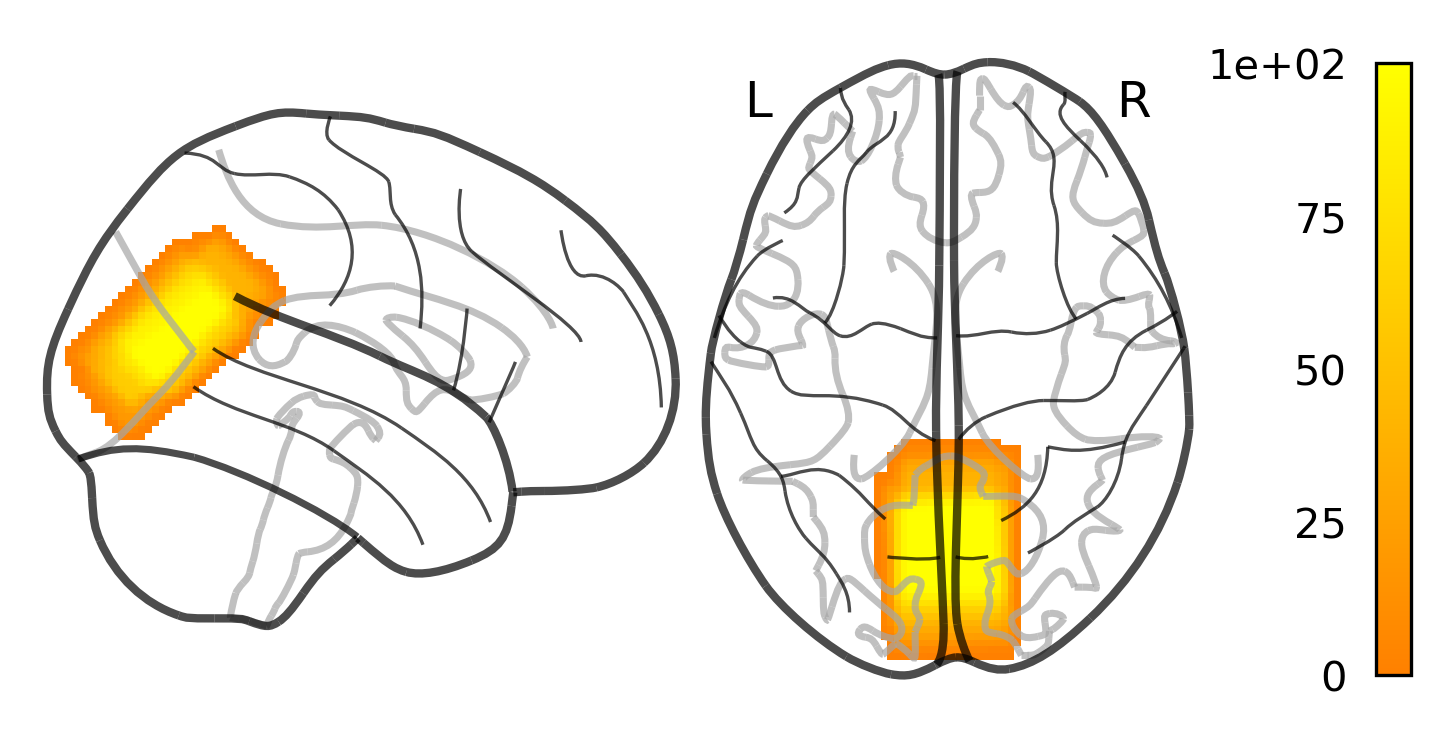
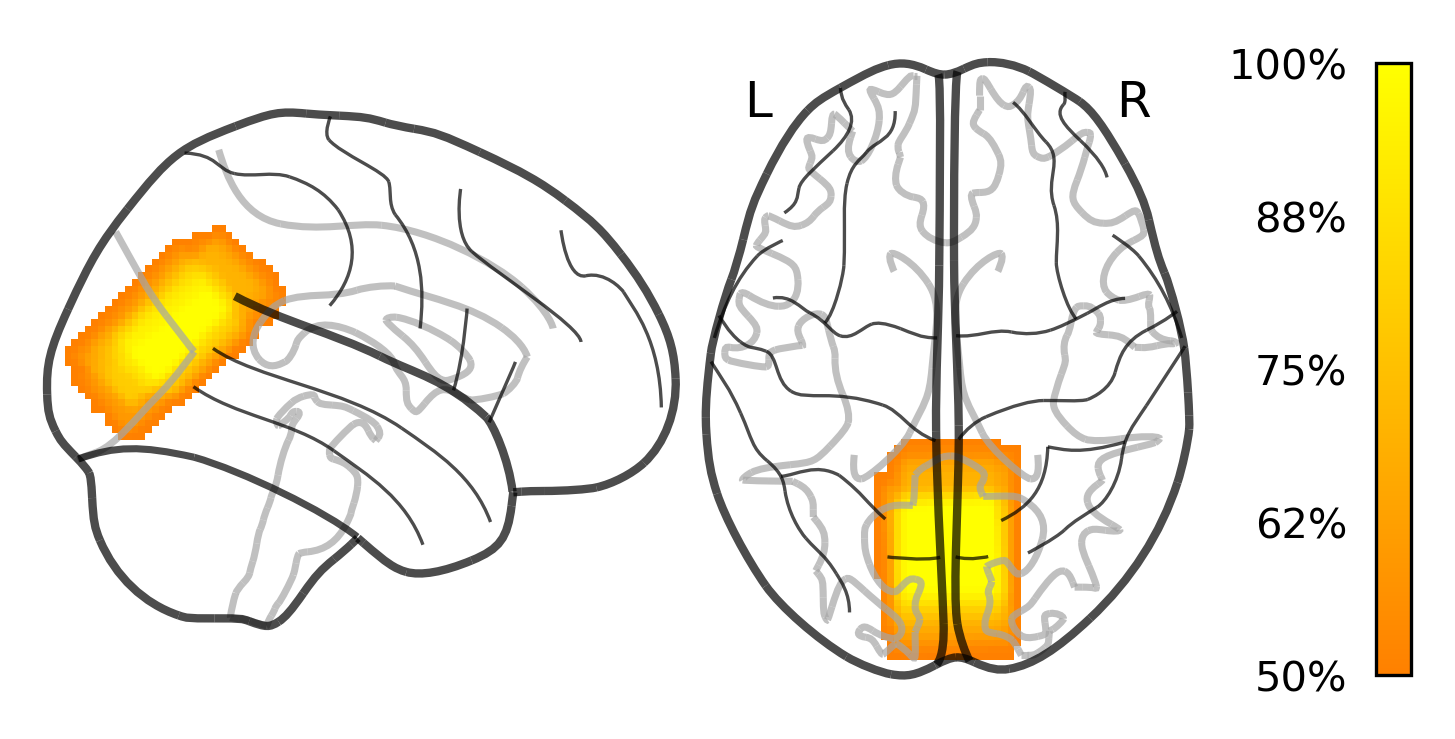
Adjusted ColorBars

diff --git a/figure1B_voxel-overlap_two-groups.py b/figure1B_voxel-overlap_two-groups.py
@@ -17,6 +17,8 @@ import pandas as pd
 import nibabel as ni
 import matplotlib.pyplot as plt
 from nilearn import plotting
+from matplotlib import ticker
+import matplotlib.gridspec as gridspec
 
 # Project directory
 data_dir = '/home/MRS_project/'
@@ -83,10 +85,29 @@ density_map_2 = ni.Nifti1Image(density_2,mask_aff)
 # Plot the figure
 fig = plt.figure()
 fig.set_size_inches(6,3)
-ax1 = plt.subplot(111)
-display=plotting.plot_glass_brain(None, threshold=0, colorbar=True, axes=ax1, display_mode='xz',alpha=0.5)
-display.add_contours(density_map_1, cmap='Reds',filled=False,alpha=0.8, colorbar=True)
-display.add_contours(density_map_2, cmap='Blues',filled=False,alpha=0.8, colorbar=True)
+
+gs = gridspec.GridSpec(1, 3,width_ratios=[9,1,1])
+ax1 = plt.subplot(gs[0])
+
+display=plotting.plot_glass_brain(None, threshold=0, colorbar=False, axes=ax1, display_mode='xz',alpha=0.5)
+display.add_contours(density_map_1, cmap='Reds',alpha=0.7)
+display.add_contours(density_map_2, cmap='Blues',alpha=0.7)
+
+ax2 = plt.subplot(gs[1])
+a = np.array([[0,1]])
+img = plt.imshow(a, cmap="Reds",axes=ax2)
+ax2.set_visible(False)
+plt.colorbar(ax=ax2)
+
+ax3 = plt.subplot(gs[2])
+a = np.array([[0,1]])
+img = plt.imshow(a, cmap="Blues",axes=ax3)
+ax3.set_visible(False)
+plt.colorbar(ax=ax3)
+
+# Adjust the scientific notation in the colorbars
+for ax in plt.gcf().axes:
+    ax.yaxis.set_major_formatter(ticker.PercentFormatter(1))
 
 # Save the figure
 fig.savefig(fig_dir+'figure_voxel_density_map_two-groups.png',bbox_inches='tight',dpi=300)

diff --git a/figure3A_spectra_single-group.py b/figure3A_spectra_single-group.py
@@ -43,7 +43,8 @@ freq_file = 'spectrum_frequencies.txt'
 disp_range = [17500,23000]
 
 # Colour to make the individual spectra - should be in a format compatible with matplotlib
-spec_colour = 'red'
+spec_colour = 'black'
+spec_color_mean='red'
 
 # Load in the spectum frequencies
 freq = np.loadtxt(os.path.join(data_dir,subjects[0],'mrs',freq_file))
@@ -72,9 +73,9 @@ ax1.grid(axis='y', color="0.9", linestyle='-', linewidth=1)
 ax1.set_axisbelow(True)
 for i in range(n_subs): # Plot individual spectra
     ax1.plot(freq[disp_range[0]:disp_range[1]], all_spec[i,disp_range[0]:disp_range[1]],
-      linewidth=0.4, alpha=0.3, color=spec_colour)
+      linewidth=0.3, alpha=0.3, color=spec_colour)
 ax1.plot(freq[disp_range[0]:disp_range[1]], mean_spec[disp_range[0]:disp_range[1]],
-  linewidth=1, alpha=0.9, color=spec_colour)
+  linewidth=1, alpha=0.9, color=spec_color_mean)
 ax1.set_xlabel('ppm',fontsize=8) # Label for x-axix - assumed to be in ppm here
 ax1.tick_params(axis='x',labelsize=8)
 ax1.set_yticklabels(('')) # Remove the tick labels from the y-axis

diff --git a/figure1A_voxel-overlap_single-group.py b/figure1A_voxel-overlap_single-group.py
@@ -17,6 +17,7 @@ import pandas as pd
 import nibabel as ni
 import matplotlib.pyplot as plt
 from nilearn import plotting
+from matplotlib import ticker
 
 # Project directory
 data_dir = '/home/MRS_project/'
@@ -65,6 +66,10 @@ fig = plt.figure()
 fig.set_size_inches(6,3)
 ax1 = plt.subplot(111)
 plotting.plot_glass_brain(density_map, threshold=0, colorbar=True, axes=ax1, cmap='autumn', display_mode='xz')
+
+# Adjust the scientific notion in the colorbar
+for ax in plt.gcf().axes:
+    ax.yaxis.set_major_formatter(ticker.PercentFormatter(1))
 
 # Save the figure
 fig.savefig(fig_dir+'figure_voxel_density_map_single-group.png',bbox_inches='tight',dpi=300)
